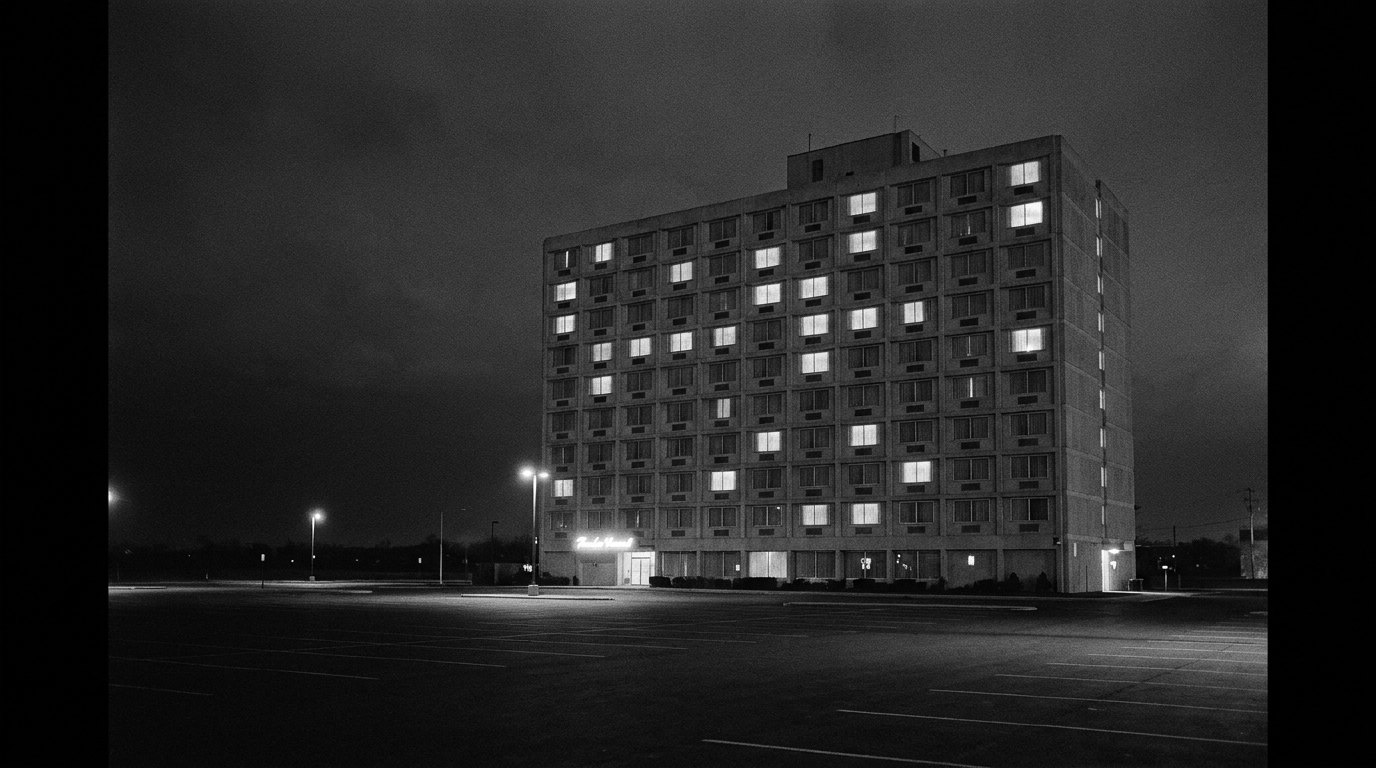
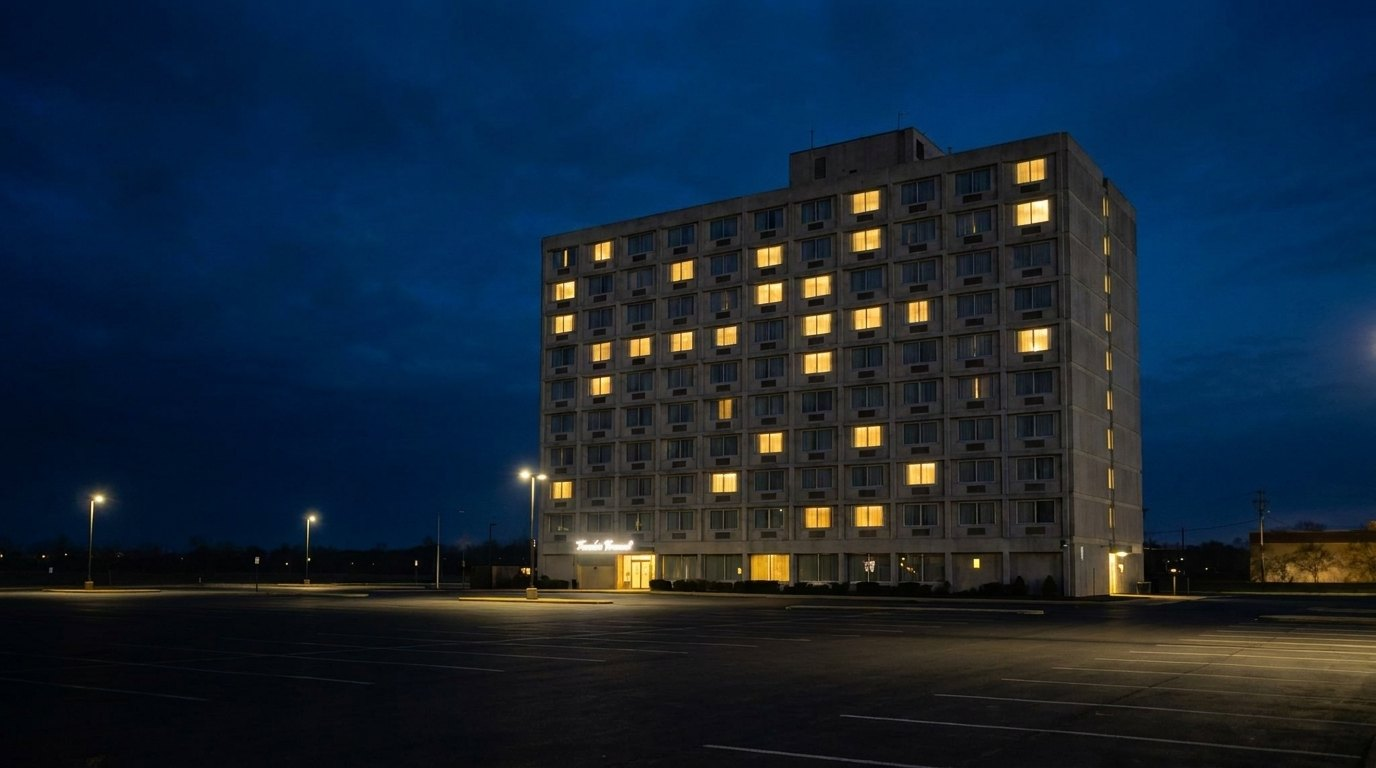
Scroll-reveal: photos come alive B&W->colour on scroll (hotel, live)
Same treatment as supermarket: 6 photographs (Cliff, both hotel survey plates, HVAC
optimizer, thermal barrier, solar coil) go grayscale->colour as they cross the viewport
(0% bottom@bottom, 50% middle centred, 100% top@top, then hold). Colourised the three
B&W sources (hotel tower plate, rooftop-fleet plate, barrier) image-to-image, same
composition; the coil cutaway + SunCore stay grayscale by design. Live (no gate).

diff --git a/index.html b/index.html
@@ -187,7 +187,7 @@
     <div class="wrap">
       <div class="dossier">
         <figure class="dossier__photo">
-          <div class="plate__frame plate__frame--portrait"><img src="assets/img/cliff-lab.jpg" alt="Cliff Suljak, Chief Materials Engineer, standing in a materials testing laboratory" loading="lazy"></div>
+          <div class="plate__frame plate__frame--portrait"><img class="js-reveal" src="assets/img/cliff-lab.jpg" alt="Cliff Suljak, Chief Materials Engineer, standing in a materials testing laboratory" loading="lazy"></div>
           <figcaption class="dossier__cap">Personnel file &middot; C. Suljak &middot; Chief Materials Engineer</figcaption>
         </figure>
         <div class="dossier__body">
@@ -266,7 +266,7 @@
         <figcaption>Fig. 03 &middot; The load that runs every hour of the year</figcaption>
       </figure>
       <figure class="plate plate--dark">
-        <div class="plate__frame"><img src="assets/img/always-night.jpg" alt="Illustrative: a hotel tower after midnight, dark against the sky except for a grid of lit guest-room windows, each one a room still being conditioned" loading="lazy"></div>
+        <div class="plate__frame"><img class="js-reveal" src="assets/img/always-night.jpg" alt="Illustrative: a hotel tower after midnight, dark against the sky except for a grid of lit guest-room windows, each one a room still being conditioned" loading="lazy"></div>
         <figcaption>Survey plate 1 &middot; A hotel after midnight &middot; every lit window is a room still running &middot; illustrative<sup class="fn"><a href="#notes" aria-label="See note 1">1</a></sup></figcaption>
       </figure>
       <p class="always__note">This is why we start with the meter, not the roof: in a building that never rests, the fix attached to the load that never stops is the one that pays the most.</p>
@@ -411,21 +411,21 @@
           <p class="kit__fig">Recovers up to 36% of lost performance<sup class="fn"><a href="#notes" aria-label="See notes 1 and 12">1, 12</a></sup></p>
         </li>
         <li>
-          <div class="kit__img"><img src="assets/img/kit-optimizer.jpg" alt="The HVAC optimizer control module, photographed on its mounting panel" loading="lazy"></div>
+          <div class="kit__img"><img class="js-reveal" src="assets/img/kit-optimizer.jpg" alt="The HVAC optimizer control module, photographed on its mounting panel" loading="lazy"></div>
           <p class="kit__fit">For simple on/off compressors &middot; most hotel rooftops and PTACs</p>
           <h3>The HVAC optimizer</h3>
           <p>Learns how the property actually runs and shuts the compressor off the moment it stops doing useful work, while the fan keeps delivering the stored comfort. Nothing changes in the guest room.</p>
           <p class="kit__fig">15&ndash;30% less HVAC energy<sup class="fn"><a href="#notes" aria-label="See note 1">1</a></sup></p>
         </li>
         <li>
-          <div class="kit__img"><img src="assets/img/kit-barrier.png" alt="Illustrative: a commercial flat roof half-coated in a bright reflective thermal barrier" loading="lazy"></div>
+          <div class="kit__img"><img class="js-reveal" src="assets/img/kit-barrier.jpg" alt="Illustrative: a commercial flat roof half-coated in a bright reflective thermal barrier" loading="lazy"></div>
           <p class="kit__fit">For the roof over all of it</p>
           <h3>The thermal barrier</h3>
           <p>A hotel roof is acres of flat surface loading heat into the equipment and the top-floor rooms underneath it. Sprayed or membrane-applied where the diagnosis shows it pays, so the heat never reaches the units that would have fought it.</p>
           <p class="kit__fig">Blocks up to 18 degrees before it gets in<sup class="fn"><a href="#notes" aria-label="See note 1">1</a></sup></p>
         </li>
         <li>
-          <div class="kit__img"><img src="assets/img/kit-solarcoil.jpg" alt="A solar coil collector installed on a commercial roof, rooftop units behind it" loading="lazy"></div>
+          <div class="kit__img"><img class="js-reveal" src="assets/img/kit-solarcoil.jpg" alt="A solar coil collector installed on a commercial roof, rooftop units behind it" loading="lazy"></div>
           <p class="kit__fit">For inverter-type systems</p>
           <h3>The solar coil</h3>
           <p>Not a solar panel: a solar thermal retrofit that captures the sun's heat directly and puts it to work for the compressor, changing where the energy comes from.</p>
@@ -564,7 +564,7 @@
       <p class="lead">The same waste that pads the bill runs through your rooftops, PTACs, and boilers and wears them out years early. <strong>Replacing an aged-out rooftop or PTAC fleet runs $250K to $500K per property.</strong><sup class="fn"><a href="#notes" aria-label="See note 1">1</a></sup></p>
       <p class="lead">And a guest room that can't hold temperature isn't a work order. It's a comped night, a one-star review about the unit that rattled all night or the room that never cooled down, and a guest who books somewhere else next time.<sup class="fn"><a href="#notes" aria-label="See notes 1 and 12">1, 12</a></sup> <strong>None of it appears on any bill until the day it all does.</strong></p>
       <figure class="plate">
-        <div class="plate__frame"><img src="assets/img/stakes-cases.jpg" alt="Illustrative: rows of aging rooftop HVAC units on a hotel roof, the fleet that wears out early when it never gets to rest" loading="lazy"></div>
+        <div class="plate__frame"><img class="js-reveal" src="assets/img/stakes-cases.jpg" alt="Illustrative: rows of aging rooftop HVAC units on a hotel roof, the fleet that wears out early when it never gets to rest" loading="lazy"></div>
         <figcaption>Survey plate 2 &middot; The rooftop fleet that wears out early when it never gets to rest &middot; illustrative</figcaption>
       </figure>
     </div>

diff --git a/assets/site.js b/assets/site.js
@@ -37,6 +37,37 @@
     }));
   }
 
+  /* ---------- scroll-reveal: photos go B&W -> colour as they cross the viewport ----------
+     Each img.js-reveal is driven by its own --c: 0 when its bottom is at the viewport
+     bottom, 50% when its middle is centred, 100% when its top reaches the top; then holds.
+     Reverses on scroll-up. Reduced-motion keeps the static grayscale. */
+  const revealImgs = document.querySelectorAll("img.js-reveal");
+  if (revealImgs.length && !reduced && "IntersectionObserver" in window) {
+    document.documentElement.classList.add("reveal-on");
+    const vis = new Set();
+    const io = new IntersectionObserver((entries) => {
+      for (const e of entries) {
+        if (e.isIntersecting) vis.add(e.target);
+        else { vis.delete(e.target); e.target.style.setProperty("--c", e.boundingClientRect.top < 0 ? "1" : "0"); }
+      }
+    }, { threshold: 0 });
+    revealImgs.forEach((el) => io.observe(el));
+    let rTick = false;
+    const rUpd = () => {
+      rTick = false;
+      const vh = innerHeight;
+      vis.forEach((el) => {
+        const r = el.getBoundingClientRect();
+        const p = 1 - r.top / Math.max(vh - r.height, 1); // 0% bottom@bottom, 50% middle centred, 100% top@top
+        el.style.setProperty("--c", Math.min(Math.max(p, 0), 1).toFixed(3));
+      });
+    };
+    const rOnScroll = () => { if (!rTick) { rTick = true; requestAnimationFrame(rUpd); } };
+    addEventListener("scroll", rOnScroll, { passive: true });
+    addEventListener("resize", rOnScroll, { passive: true });
+    rUpd();
+  }
+
   /* ---------- text-the-founder panels ---------- */
   const isIOS = /iP(hone|ad|od)/.test(navigator.userAgent) || (/Mac/.test(navigator.userAgent) && "ontouchend" in document);
   const buildSms = (panel) => {

diff --git a/assets/site.css b/assets/site.css
@@ -552,6 +552,21 @@ dialog::backdrop { background: oklch(0.12 0.006 260 / 0.8); }
 .kit li { border-top: 1px solid var(--graphite-rule); padding-top: clamp(1.1rem, 2.5vw, 1.5rem); }
 .kit__img { border: 1px solid var(--graphite-rule); padding: 0.45rem; background: oklch(0.2 0.008 260); }
 .kit__img img { width: 100%; aspect-ratio: 3 / 2; object-fit: cover; filter: grayscale(1) contrast(1.05) brightness(0.92); display: block; }
+
+/* scroll-reveal: photographs come alive from B&W to colour as they cross the viewport.
+   site.js adds .reveal-on (motion allowed) and drives each img.js-reveal by its own --c
+   (0..1). Higher specificity (html.reveal-on img.js-reveal) so it overrides the base
+   grayscale filters on the portrait, plates, and kit photos. The coil cutaway (a line
+   drawing) and the B&W SunCore are deliberately NOT tagged — the schematics stay in ink,
+   the real places come alive. */
+html.reveal-on img.js-reveal {
+  filter:
+    grayscale(calc(1 - var(--c, 0)))
+    saturate(calc(1 + 0.25 * var(--c, 0)))
+    contrast(1.05)
+    brightness(calc(0.9 + 0.1 * var(--c, 0)));
+  transition: filter 90ms linear;
+}
 .kit__fit { margin-top: 0.9rem; font-family: var(--font-mono); font-size: 0.7rem; font-weight: 500; letter-spacing: 0.07em; text-transform: uppercase; color: oklch(0.62 0.006 260); }
 .kit h3 { margin-top: 0.35rem; font-size: var(--step-1); color: var(--panel-ink); }
 .kit li > p:not(.kit__fit):not(.kit__fig) { margin-top: 0.5rem; font-size: var(--step--1); }
